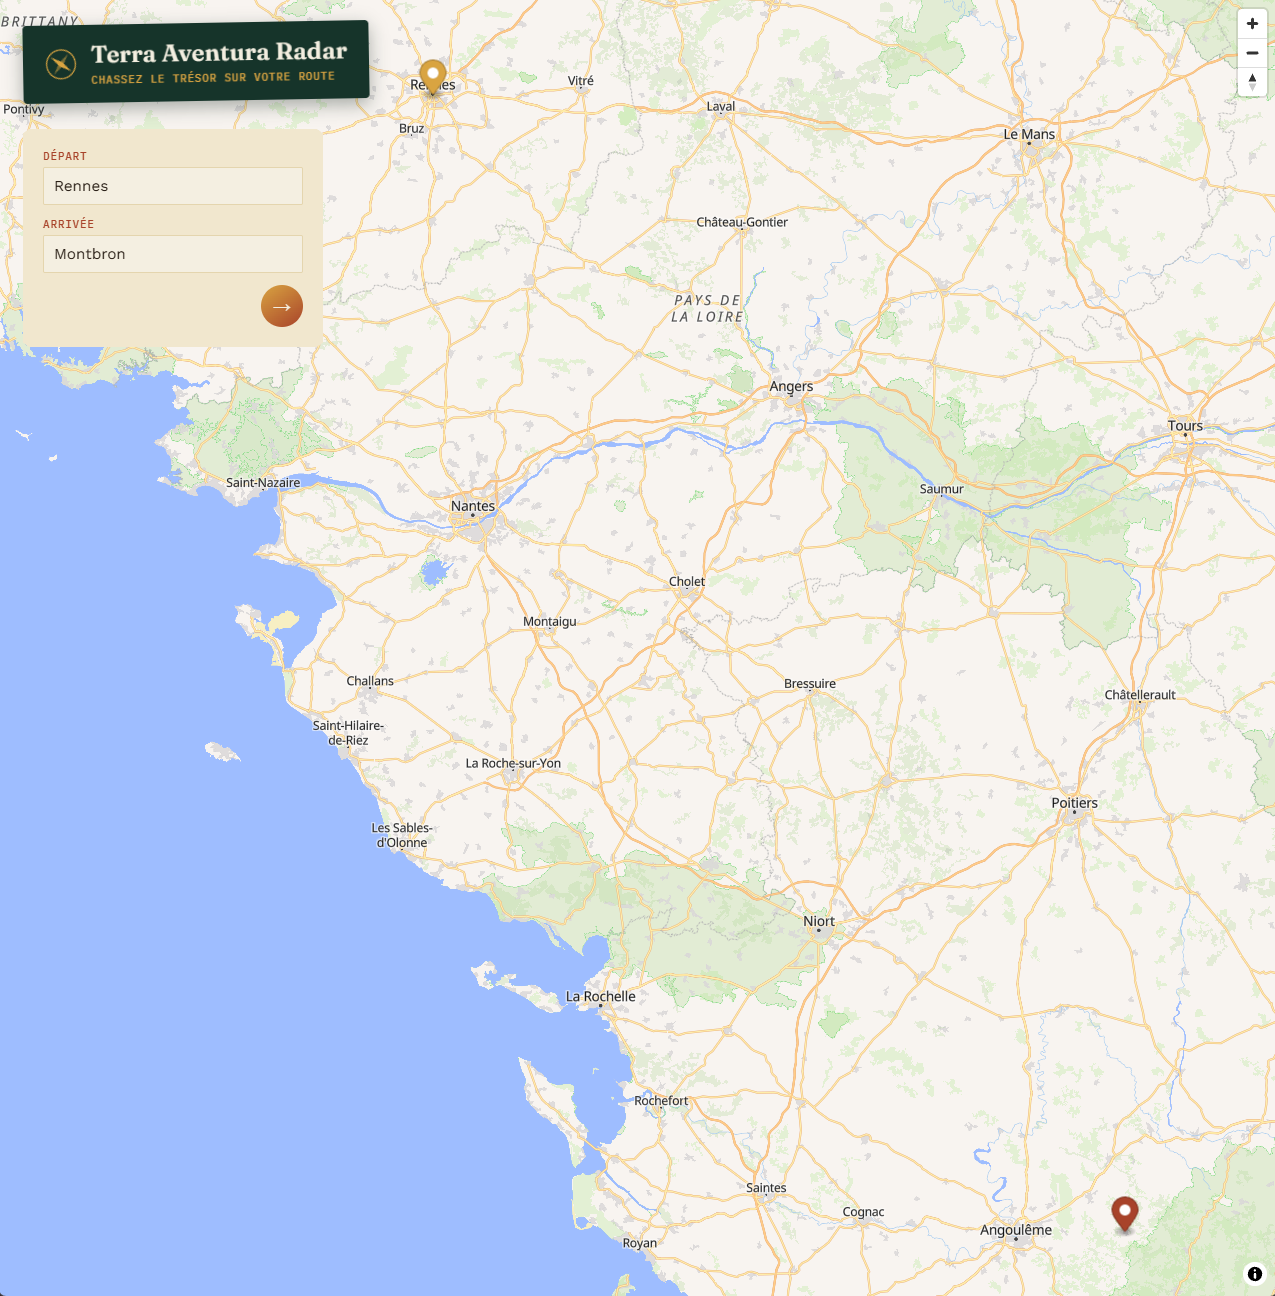
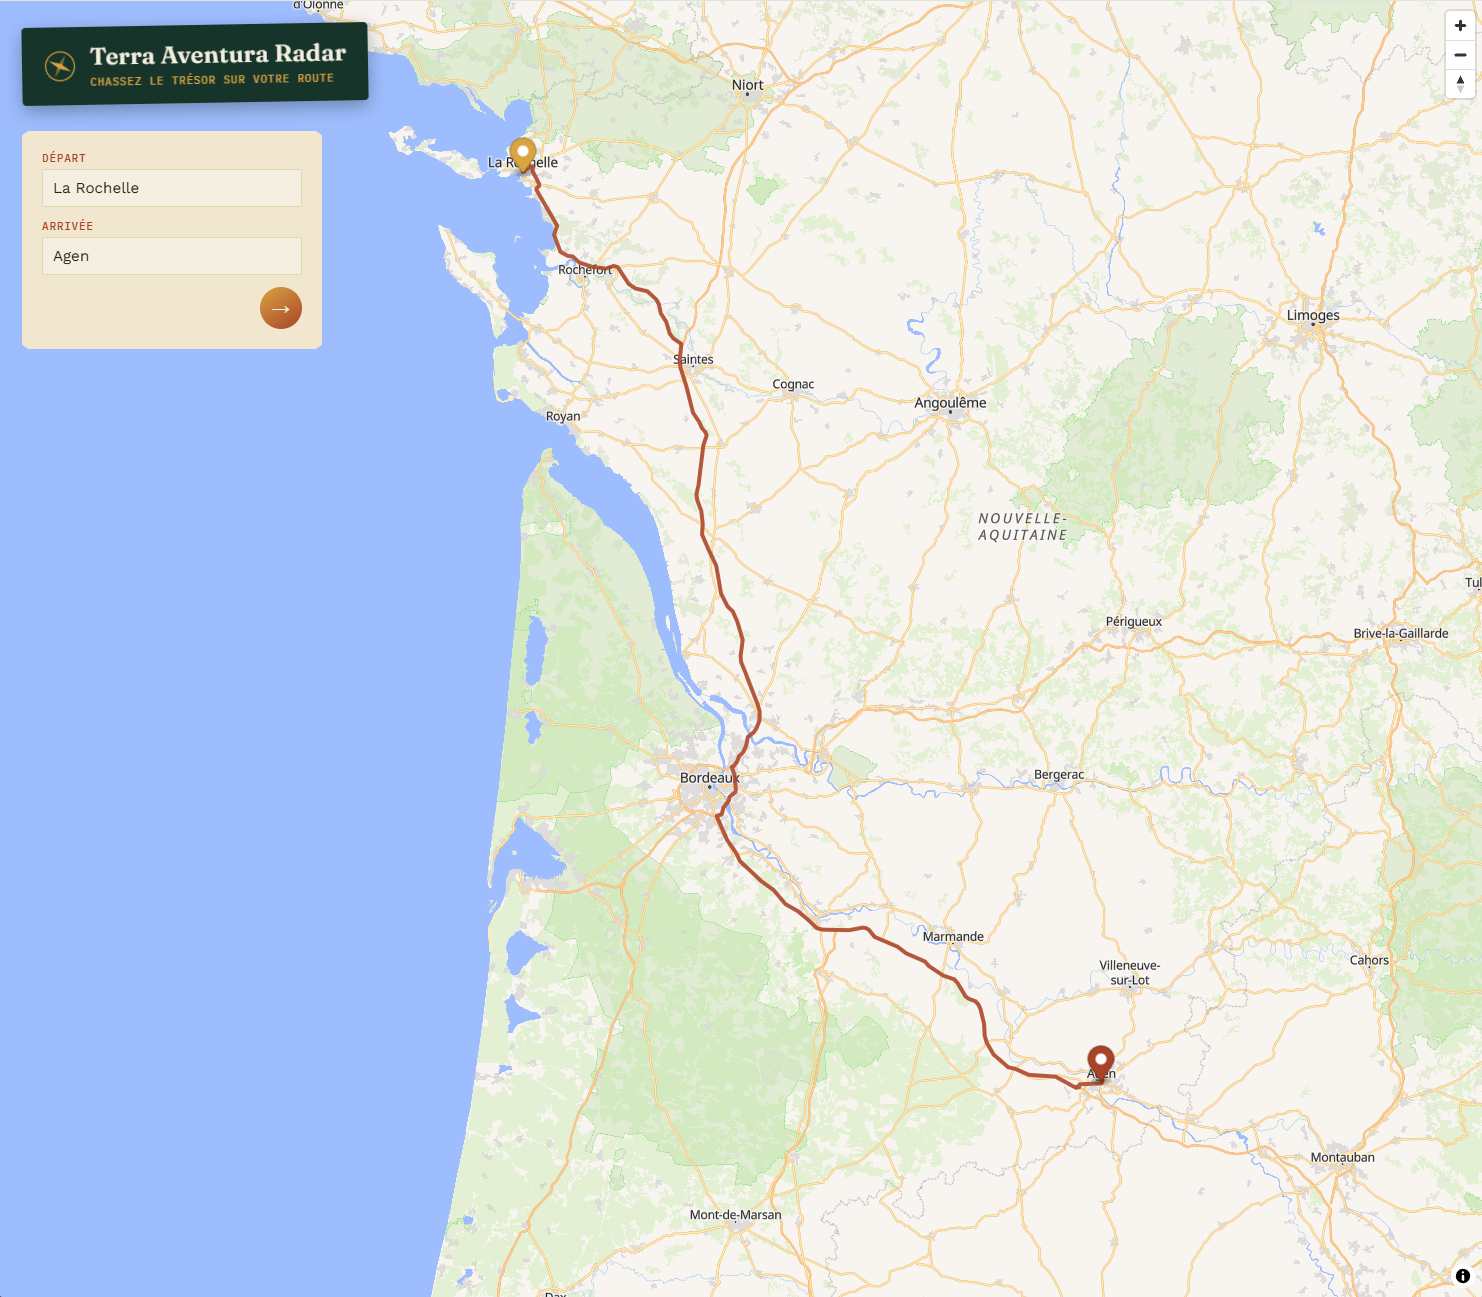
feat(#2) : ajout appel à GraphHopper pour récupérer le parcours entier

diff --git a/frontend/src/main.js b/frontend/src/main.js
@@ -27,8 +27,7 @@ const errorEl = document.getElementById("route-error");
 let departMarker = null;
 let arriveeMarker = null;
 
-// Petite pause, utilisée pour espacer les appels à /api/geocode
-// (Nominatim limite à 1 requête/seconde, voir sa politique d'usage)
+// Force une pause utilisée pour espacer les appels à /api/geocode (Nominatim limite à 1 requête/seconde)
 function wait(ms) {
   return new Promise((resolve) => setTimeout(resolve, ms));
 }
@@ -44,6 +43,21 @@ async function geocode(query) {
   return response.json(); // { lat, lon, displayName }
 }
 
+// Calcule l'itinéraire entre deux points (appel à GraphHopper) et récupère les Terra Aventura à proximité
+async function fetchItineraire(depart, arrivee) {
+  const response = await fetch("/api/itineraire", {
+    method: "POST",
+    headers: { "Content-Type": "application/json" },
+    body: JSON.stringify({ depart, arrivee }),
+  });
+
+  if (!response.ok) {
+    throw new Error("Impossible de calculer l'itinéraire");
+  }
+
+  return response.json(); // format : { itineraire: { geometry, distance, duration }, terraAventura }
+}
+
 /**
  * Place un marker sur la carte
  * @param {*} position - { lat, lon, displayName }
@@ -54,6 +68,58 @@ function placeMarker(position, color) {
   return new Marker({ color })
     .setLngLat([position.lon, position.lat])
     .addTo(map);
+}
+
+/**
+ * Affiche le tracé de l'itinéraire sur la carte
+ * @param {*} geometry - GeoJSON LineString { type: "LineString", coordinates: [[lon, lat], ...] }
+ * @returns
+ */
+function displayRoute(geometry) {
+  const routeFeature = { type: "Feature", geometry, properties: {} };
+  const source = map.getSource("route");
+
+  if (source) {
+    source.setData(routeFeature);
+    return;
+  }
+
+  map.addSource("route", { type: "geojson", data: routeFeature });
+  map.addLayer({
+    id: "route-line",
+    type: "line",
+    source: "route",
+    layout: { "line-join": "round", "line-cap": "round" },
+    paint: {
+      "line-color": "#a8432a",
+      "line-width": 4,
+      "line-opacity": 0.85,
+    },
+  });
+}
+
+/**
+ * Calcule les coordonnées du rectangle englobant un ensemble de points
+ * @param {*} coordinates - Liste de coordonnées [[lon, lat], ...]
+ * @returns
+ */
+function computeBounds(coordinates) {
+  let minLon = Infinity;
+  let minLat = Infinity;
+  let maxLon = -Infinity;
+  let maxLat = -Infinity;
+
+  for (const [lon, lat] of coordinates) {
+    if (lon < minLon) minLon = lon;
+    if (lon > maxLon) maxLon = lon;
+    if (lat < minLat) minLat = lat;
+    if (lat > maxLat) maxLat = lat;
+  }
+
+  return [
+    [minLon, minLat],
+    [maxLon, maxLat],
+  ];
 }
 
 /**
@@ -99,21 +165,26 @@ form.addEventListener("submit", async (event) => {
     departMarker = placeMarker(departPos, "#d9a441");
     arriveeMarker = placeMarker(arriveePos, "#a8432a");
 
-    // Calcul des bounds pour ajuster la vue de la carte afin d'inclure les deux markers
-    const bounds = [
-      [
-        Math.min(departPos.lon, arriveePos.lon),
-        Math.min(departPos.lat, arriveePos.lat),
-      ],
-      [
-        Math.max(departPos.lon, arriveePos.lon),
-        Math.max(departPos.lat, arriveePos.lat),
-      ],
-    ];
+    // Cadrage 1 : on cadre la carte sur les deux markers de départ et d'arrivée
+    map.fitBounds(
+      computeBounds([
+        [departPos.lon, departPos.lat],
+        [arriveePos.lon, arriveePos.lat],
+      ]),
+      { padding: 80, maxZoom: 12, duration: 800 },
+    );
 
-    map.fitBounds(bounds, { padding: 80, maxZoom: 12, duration: 800 });
+    const { itineraire } = await fetchItineraire(departPos, arriveePos);
+    displayRoute(itineraire.geometry);
 
-    // TODO : appeler POST /api/itineraire avec ces coordonnées pour tracer le trajet réel et récupérer les Terra Aventura à proximité
+    // Cadrage 2 : on cadre la carte sur l'ensemble du tracé de l'itinéraire
+    map.fitBounds(computeBounds(itineraire.geometry.coordinates), {
+      padding: 80,
+      maxZoom: 12,
+      duration: 800,
+    });
+
+    // TODO : afficher les Terra Aventura à proximité (itineraire.terraAventura)
   } catch (err) {
     console.error("Erreur lors de la recherche d'itinéraire :", err);
     setError(err.message || "Une erreur est survenue, vérifie l'orthographe.");

diff --git a/backend/server.js b/backend/server.js
@@ -4,10 +4,17 @@ const express = require("express");
 const app = express();
 const PORT = process.env.PORT || 3000;
 const CONTACT_EMAIL = process.env.CONTACT_EMAIL;
+const GRAPHHOPPER_API_KEY = process.env.GRAPHHOPPER_API_KEY;
 
 if (!CONTACT_EMAIL) {
   console.warn(
     "CONTACT_EMAIL n'est pas défini dans .env — Nominatim peut bloquer les requêtes sans identification valide. Ajoute CONTACT_EMAIL=ton@email.fr",
+  );
+}
+
+if (!GRAPHHOPPER_API_KEY) {
+  console.warn(
+    "GRAPHHOPPER_API_KEY n'est pas défini dans .env — la route /api/itineraire ne fonctionnera pas. Ajoute GRAPHHOPPER_API_KEY=ta_cle",
   );
 }
 
@@ -66,26 +73,67 @@ app.get("/api/geocode", async (req, res) => {
 /**
  * Calcule un itinéraire entre deux points et recherche les Terra Aventura à proximité
  * @param {Object} req.body - Les coordonnées de départ et d'arrivée
- * @param {Array<number>} req.body.depart - Coordonnées de départ
- * @param {Array<number>} req.body.arrivee - Coordonnées d'arrivée
+ * @param {{lat: number, lon: number}} req.body.depart - Coordonnées de départ
+ * @param {{lat: number, lon: number}} req.body.arrivee - Coordonnées d'arrivée
  * @returns {Promise<Object>} - L'itinéraire calculé et les Terra Aventura à proximité
  */
 app.post("/api/itineraire", async (req, res) => {
   const { depart, arrivee } = req.body;
 
-  if (!depart || !arrivee) {
+  if (!depart?.lat || !depart?.lon || !arrivee?.lat || !arrivee?.lon) {
     return res.status(400).json({
-      error: "Les champs 'depart' et 'arrivee' sont requis (ex: [lon, lat])",
+      error:
+        "Les champs 'depart' et 'arrivee' sont requis, au format { lat, lon }",
     });
   }
 
-  // TODO : appeler l'API GraphHopper pour calculer l'itinéraire réel
-  // TODO : interroger PostGIS avec ST_DWithin pour trouver les Terra Aventura à proximité du tracé obtenu
+  if (!GRAPHHOPPER_API_KEY) {
+    return res
+      .status(500)
+      .json({ error: "GRAPHHOPPER_API_KEY n'est pas configurée côté serveur" });
+  }
 
-  res.json({
-    itineraire: { depart, arrivee, geometry: null },
-    terraAventura: [],
-  });
+  const url = new URL("https://graphhopper.com/api/1/route");
+
+  url.searchParams.append("point", `${depart.lat},${depart.lon}`);
+  url.searchParams.append("point", `${arrivee.lat},${arrivee.lon}`);
+  url.searchParams.set("vehicle", "car");
+  url.searchParams.set("locale", "fr");
+  url.searchParams.set("points_encoded", "false");
+  url.searchParams.set("key", GRAPHHOPPER_API_KEY);
+
+  try {
+    const response = await fetch(url);
+
+    if (!response.ok) {
+      const errorBody = await response.json().catch(() => ({}));
+      console.error("Erreur GraphHopper :", response.status, errorBody);
+      return res
+        .status(502)
+        .json({ error: "Impossible de calculer l'itinéraire" });
+    }
+
+    const data = await response.json();
+    const path = data.paths?.[0];
+
+    if (!path) {
+      return res.status(404).json({ error: "Aucun itinéraire trouvé" });
+    }
+
+    // TODO : interroger PostGIS avec ST_DWithin pour trouver les Terra Aventura à proximité de path.points
+
+    res.json({
+      itineraire: {
+        geometry: path.points,
+        distance: path.distance,
+        duration: path.time,
+      },
+      terraAventura: [],
+    });
+  } catch (err) {
+    console.error("Erreur de routing :", err.message);
+    res.status(502).json({ error: "Le service de routing est indisponible" });
+  }
 });
 
 app.listen(PORT, () => {

diff --git a/README.md b/README.md
@@ -153,7 +153,8 @@ $ cd backend/
 $ node server.js
 ```
 
-Pour géocoder les villes à marquer, on appelle [Nominatim](https://nominatim.org/).
+Pour géocoder les villes à marquer, on appelle [Nominatim](https://nominatim.org/).  
+Puis pour calculer l'itinéraire, on utilise [GraphHopper](https://graphhopper.com).
 
 ### Frontend
 
